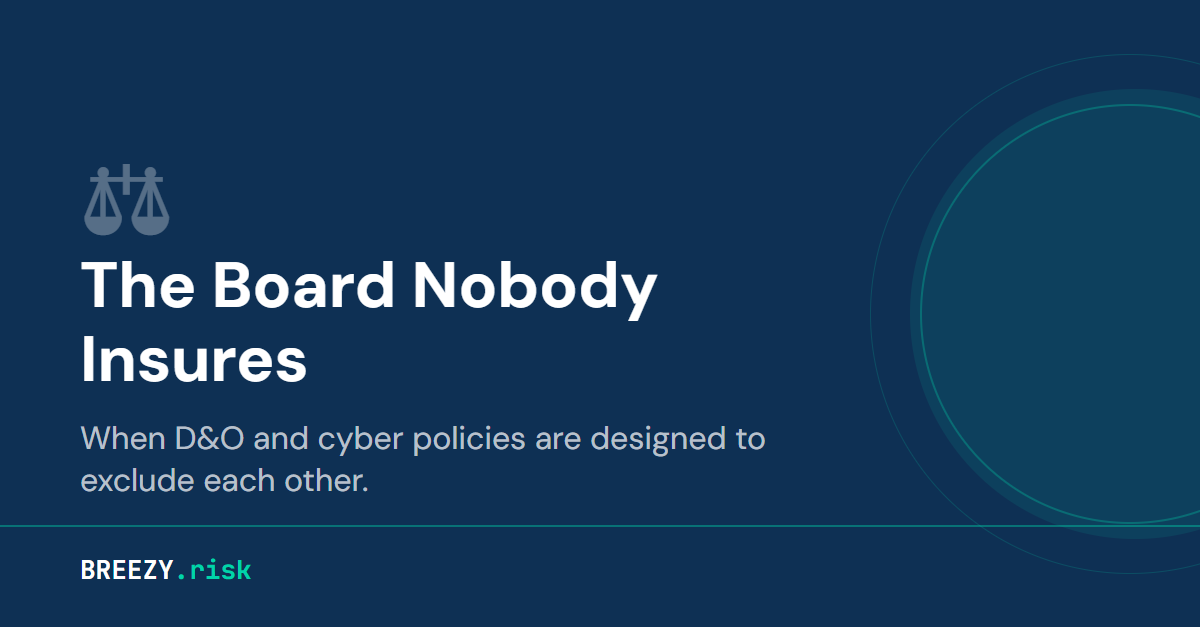
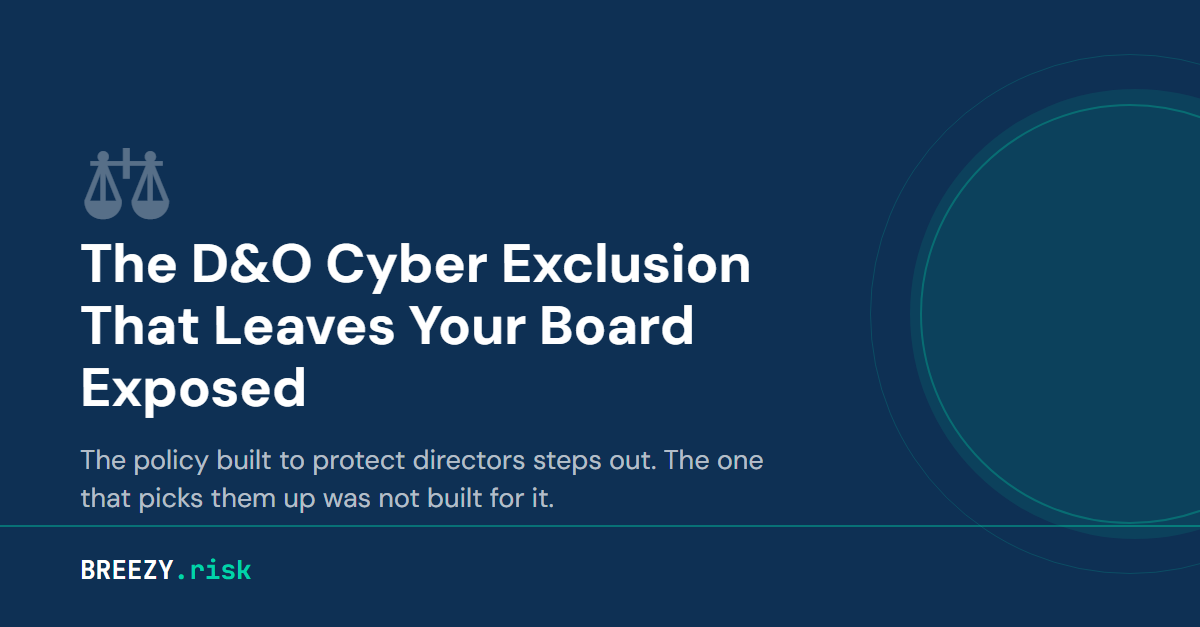
Correct the board-coverage finding: directors are named insureds on cyber
The site claimed that after a breach the D&O cyber exclusion applies and the
cyber policy does not reach individual directors, leaving the board with no
insurance response. The second half was wrong. Directors are named in the
definition of Insured on every community bank cyber form reviewed. The error
came from reading insuring agreements, which describe events, and never
reading the definitions, which decide who.

What replaces it: the D&O steps out (unchanged), the cyber policy catches the
directors, but there is no Side A tower so the board shares one limit that
breach response spends first, the claim trigger is form-dependent, and a broad
securities exclusion can still bar a post-breach derivative suit.

Also retires the recommendation to add directors as additional insureds on the
cyber policy. On these forms it is a no-op.

Regenerates the social card, which still read "The Board Nobody Insures."

Changed region(s): [[0.0617, 0.2424, 0.6475, 0.8182]]

diff --git a/faq.html b/faq.html
@@ -108,7 +108,7 @@ permalink: /faq/
       "name": "Will my D&O policy protect the board after a cyber breach?",
       "acceptedAnswer": {
         "@type": "Answer",
-        "text": "Probably less than you think. Most D&O policies for community banks include a cyber exclusion that excludes anything arising out of a cyber event. The intent is to push those claims to the cyber policy, but the cyber policy excludes D&O-style claims like shareholder derivative actions and individual director liability. After a breach, directors can face personal liability with neither policy responding at meaningful limits. I read both policies together and identify the wording that creates the gap, plus any investigative cost coverage the cyber policy may carry that the board can use."
+        "text": "Probably less than you think. Most D&O policies for community banks include a cyber exclusion that excludes anything arising out of a cyber event. The intent is to push those claims to the cyber policy, and the cyber policy does catch more of them than most boards realize, because on every community bank form I have read in full, directors are named in its definition of Insured. What it does not do is behave like a D&O policy. There is no Side A tower reserved for individuals, so the directors share one limit with forensics, notification and business interruption. On some forms nothing counts as a claim until a formal proceeding begins, and a broad securities exclusion can still bar a post-breach derivative suit. I read both policies together and identify which of those three narrows applies to you."
       }
     },
     {
@@ -237,8 +237,8 @@ permalink: /faq/
                 </div>
                 <div class="accordion-content">
                     <div class="accordion-body">
-                        <p>Probably less than you think. Most D&amp;O policies for community banks include a cyber exclusion that excludes anything arising out of a cyber event. The intent is to push those claims to the cyber policy, but the cyber policy excludes D&amp;O-style claims like shareholder derivative actions and individual director liability.</p>
-                        <p>After a breach, directors can face personal liability with neither policy responding at meaningful limits. I read both policies together and identify the wording that creates the gap, plus any investigative cost coverage the cyber policy may carry that the board can use.</p>
+                        <p>Probably less than you think. Most D&amp;O policies for community banks include a cyber exclusion that excludes anything arising out of a cyber event. The intent is to push those claims to the cyber policy, and the cyber policy does catch more of them than most boards realize, because on every community bank form I have read in full, directors are named in its definition of Insured.</p>
+                        <p>What it does not do is behave like a D&amp;O policy. There is no Side A tower reserved for individuals, so the directors share one limit with forensics, notification and business interruption, and those costs land first. On some forms nothing counts as a claim until a formal proceeding begins, which leaves the pre-formal examiner activity uncovered. And a broad securities exclusion can still bar a post-breach derivative suit. I read both policies together and identify which of those three narrows applies to you.</p>
                     </div>
                 </div>
             </div>

diff --git a/assets/images/blog-header-board-nobody-insures.html b/assets/images/blog-header-board-nobody-insures.html
@@ -6,7 +6,7 @@ sitemap: false
 <html>
 <head>
     <meta charset="UTF-8">
-    <title>Blog Header - The Board Nobody Insures</title>
+    <title>Blog Header - The D&amp;O Cyber Exclusion That Leaves Your Board Exposed</title>
     <link rel="preconnect" href="https://fonts.googleapis.com">
     <link rel="preconnect" href="https://fonts.gstatic.com" crossorigin>
     <link href="https://fonts.googleapis.com/css2?family=JetBrains+Mono:wght@400;600;700&family=DM+Sans:wght@400;500;700&display=swap" rel="stylesheet">
@@ -98,20 +98,21 @@ sitemap: false
 
         .title {
             font-family: 'DM Sans', sans-serif;
-            font-size: 64px;
+            font-size: 54px;
             font-weight: 700;
             color: #FFFFFF;
             line-height: 1.15;
-            margin-bottom: 20px;
-            max-width: 720px;
+            margin-bottom: 22px;
+            max-width: 800px;
         }
 
         .subtitle {
             font-family: 'DM Sans', sans-serif;
-            font-size: 32px;
+            font-size: 27px;
             font-weight: 400;
+            line-height: 1.4;
             color: rgba(255, 255, 255, 0.7);
-            max-width: 700px;
+            max-width: 730px;
         }
 
         .logo {
@@ -139,8 +140,8 @@ sitemap: false
 
     <div class="content">
         <div style="font-size: 100px; margin-bottom: -10px; opacity: 0.3; color: #fff;">&#x2696;</div>
-        <div class="title">The Board Nobody Insures</div>
-        <div class="subtitle">When D&amp;O and cyber policies are designed to exclude each other.</div>
+        <div class="title">The D&amp;O Cyber Exclusion That Leaves Your Board Exposed</div>
+        <div class="subtitle">The policy built to protect directors steps out. The one that picks them up was not built for it.</div>
     </div>
 
     <div class="logo">BREEZY<span class="teal">.risk</span></div>

diff --git a/coverage-gaps.html b/coverage-gaps.html
@@ -512,7 +512,7 @@ permalink: /coverage-gaps/
         <div class="gap-card__number">Gap 2</div>
         <h2 class="gap-card__title">The Board on the Hook</h2>
         <p class="gap-card__body">
-          After a breach, regulators go after the directors personally. The D&amp;O policy has a cyber exclusion nobody reviewed. The cyber policy does not cover board liability. Directors face personal exposure with no policy responding.
+          After a breach, regulators go after the directors personally. The D&amp;O policy has a cyber exclusion nobody reviewed. The cyber policy names directors as insureds and will respond, but on a limit the breach response has already been spending, and on some forms not until a formal proceeding begins.
         </p>
         <p class="gap-card__verdict">Some version of this gap exists in every institution I have reviewed.</p>
         <a href="{{ '/insights/the-board-nobody-insures/' | relative_url }}" class="gap-card__link">See the full analysis &rarr;</a>

diff --git a/index.html b/index.html
@@ -74,8 +74,8 @@ description: "I don't sell insurance. I audit it. Independent Risk Intelligence 
 
       <div class="proof-card">
         <svg class="proof-card-icon" width="28" height="28" viewBox="0 0 24 24" fill="none" stroke="currentColor" stroke-width="2" stroke-linecap="round" stroke-linejoin="round" aria-hidden="true"><path d="M12 22s8-4 8-10V5l-8-3-8 3v7c0 6 8 10 8 10z"/></svg>
-        <h3>D&O excludes cyber. Cyber excludes board.</h3>
-        <p>D&O <strong>excluded cyber-related claims</strong>. Cyber didn't cover board defense. After a breach, <strong>neither one pays.</strong></p>
+        <h3>D&O excludes cyber. The board lands on the cyber limit.</h3>
+        <p>Every D&O carried a <strong>cyber exclusion</strong>, though no two were alike. The board's defense falls to a cyber policy with <strong>no Side A layer</strong>, sharing one limit with forensics and notification.</p>
       </div>
 
       <div class="proof-card">

diff --git a/_posts/2026-04-01-the-board-nobody-insures.md b/_posts/2026-04-01-the-board-nobody-insures.md
@@ -2,21 +2,30 @@
 layout: post
 title: "The D&O Cyber Exclusion That Leaves Your Board Exposed"
 card_title: "The D&O Cyber Exclusion That Leaves Your Board Exposed"
-description: "A data breach hits a community bank. The D&O policy excludes cyber claims. The cyber policy excludes shareholder suits. Directors face personal liability with no insurance response."
+description: "A data breach hits a community bank. The D&O policy excludes cyber claims. Directors are named insureds on the cyber policy, but on a limit the breach response spends first."
 date: 2026-04-01
 author: Joerg Proeve
 category: Case Study
 read_time: "5 min read"
 image: /assets/images/Blog-Board-Nobody-Insures.png
-image_alt: "Community bank board of directors facing personal liability after a data breach with D&O cyber exclusion blocking coverage"
-last_modified_at: 2026-07-20
+image_alt: "Community bank board of directors after a data breach, with the D&O cyber exclusion blocking coverage and the defense falling to the cyber policy"
+last_modified_at: 2026-07-30
 permalink: /insights/the-board-nobody-insures/
 faq:
   - question: "What is a D&O cyber exclusion?"
     answer: "A D&O cyber exclusion is a policy clause that removes coverage for any claim 'arising out of' a cyber event. When a data breach leads to shareholder lawsuits, regulatory investigations, or derivative actions against directors, the D&O policy treats all of those claims as cyber-related and excludes them. The breadth of the exclusion depends on its wording: 'arising out of any cyber event' is broad and eliminates most post-breach director claims, while 'directly resulting from' is narrower and may preserve coverage for governance and oversight claims."
   - question: "Does D&O insurance cover data breaches at community banks?"
-    answer: "In most community bank D&O policies, no. The typical D&O policy contains a cyber exclusion that blocks coverage for any claim connected to a data breach, including shareholder derivative suits, regulatory defense costs, and class actions. At the same time, the cyber policy usually contains a securities exclusion that bars claims against individual directors. The result is a gap: neither policy covers the directors after a breach. Banks can close this gap by selecting a D&O policy without a blanket cyber exclusion and adding management liability coverage to the cyber policy."
+    answer: "In most community bank D&O policies, no. The typical D&O policy contains a cyber exclusion that blocks coverage for any claim connected to a data breach, including shareholder derivative suits, regulatory defense costs, and class actions. The cyber policy usually picks up part of what falls through, because directors are named in its definition of Insured. What it does not do is behave like a D&O policy: there is no Side A tower reserved for individuals, so directors share one limit with forensics, notification and business interruption, and on some forms a broad securities exclusion still bars a post-breach derivative suit."
 ---
+
+> **Updated July 30, 2026.** An earlier version of this post said the cyber
+> policy excludes claims against individual directors, and that recovery after a
+> post-breach board claim is zero across all three policies. That was wrong.
+> After a fee-only bank insurance consultant challenged the finding, I checked
+> the definition of Insured on the three cyber forms I hold in full. Directors
+> are named insureds on all three. The post has been rewritten around what the
+> forms actually say. The D&O cyber exclusion is unchanged and still the
+> headline problem.
 
 A data breach at a community bank exposes the personal financial information of more than 50,000 customers. Within 60 days, three things happen at once.
 
@@ -28,15 +37,25 @@ A data breach at a community bank exposes the personal financial information of 
 
 The bank's directors turn to their directors and officers (D&O) policy. They have had D&O coverage for years. It is supposed to protect them from exactly this kind of claim.
 
-## Three Policies, Zero Coverage
+## The D&O Policy Steps Out
 
 The D&O carrier reviews the claims and points to the policy's cyber exclusion: "arising out of any cyber event." The derivative action, the regulatory defense costs, the shareholder claims. All of them arise from the data breach. All of them are excluded.
 
-The directors ask: will the cyber policy cover us? The answer is no. The cyber policy contains a securities exclusion. It does not cover shareholder derivative actions, securities class actions, or claims against individual directors and officers.
+So the directors ask the obvious next question. Will the cyber policy cover us?
+
+Partly, and more than most boards expect. Turn to the definitions section, not the coverage grants, and look up Insured. On every community bank cyber form I have read in full, directors are named there. One defines an insured person to include any "director, officer, member of the board of trustees, governor, advisory or honorary director." Another says "any director or officer of the Insured Organization." A third reaches "any past, present or future officer, director, trustee." The directors have standing. Their defense costs in that OCC examination are a covered loss.
+
+That is the good news, and it took a 37-year consultant telling me I was wrong to find it. The coverage grants describe events. The definitions decide who. Read only the first half and you will reach a confident wrong answer, which is what I did.
 
 The fidelity bond is not applicable. This is not fraud, theft, or employee dishonesty.
 
-The directors are in the seam. The D&O policy excludes claims that arise from cyber events. The cyber policy excludes claims that look like D&O claims. Neither policy covers the loss. The directors face personal liability with no insurance response.
+What survives is narrower and more mechanical. Three things.
+
+**The limit is shared and it is spent in order.** A cyber policy has no Side A. D&O programs are built with a tower reserved for individuals precisely because the entity can exhaust everything else. Cyber policies are not. The directors sit on the same limit that pays forensics, notification, credit monitoring and business interruption, and those costs land in the first sixty days. The board investigation arrives in month six. This is arithmetic, not interpretation.
+
+**On some forms the clock starts late.** One of the three forms only recognizes a claim once a formal proceeding is "commenced by the filing of a notice of charges, formal investigative order or similar document." The other two reach a plain request for information. Most of what a bank board actually faces begins well before anything formal: matters requiring attention, examiner document requests, consent order negotiation. On the strictest form, none of that is a claim yet.
+
+**The derivative suit is the real seam.** Here the original version of this post was half right. Cyber policies carry a securities exclusion, and its breadth varies enormously. One form defines a securities claim to include a common law action "pled in tandem with, or in lieu of" a securities violation, brought "directly or derivatively," and then bars any loss that "in any way involves" such a claim. A Caremark suit alleging the board failed to oversee cybersecurity looks like it lands inside that. The other two forms are limited to securities transactions and securities law violations, with no derivative language at all. Same product, opposite answer.
 
 <div style="background: #0A2540; border-radius: 12px; padding: 32px; margin: 32px 0; color: #fff;">
 <h3 style="color: #00D4AA; margin-top: 0; font-size: 18px;">Three-Policy Breakdown</h3>
@@ -48,8 +67,8 @@ The directors are in the seam. The D&O policy excludes claims that arise from cy
 </div>
 <div style="flex: 1; min-width: 180px; background: rgba(59,130,246,0.1); border-left: 4px solid #3B82F6; border-radius: 8px; padding: 20px; display: flex; flex-direction: column;">
 <div style="color: #93C5FD; font-weight: 700; font-size: 14px; text-transform: uppercase; letter-spacing: 0.05em; margin-bottom: 10px;">Cyber Policy</div>
-<div style="color: rgba(255,255,255,0.8); font-size: 15px; line-height: 1.55;">Securities exclusion. Does not cover shareholder suits or claims against individual directors.</div>
-<div style="margin-top: auto; padding-top: 10px; border-top: 1px solid rgba(255,255,255,0.12);"><div style="font-size: 20px; font-weight: 700; color: #93C5FD;">$0</div></div>
+<div style="color: rgba(255,255,255,0.8); font-size: 15px; line-height: 1.55;">Directors are named insureds. Regulatory defense responds, but on a limit already spent on breach response. A broad securities exclusion may still bar the derivative suit.</div>
+<div style="margin-top: auto; padding-top: 10px; border-top: 1px solid rgba(255,255,255,0.12);"><div style="font-size: 20px; font-weight: 700; color: #93C5FD;">Whatever is left</div></div>
 </div>
 <div style="flex: 1; min-width: 180px; background: rgba(245,158,11,0.1); border-left: 4px solid #F59E0B; border-radius: 8px; padding: 20px; display: flex; flex-direction: column;">
 <div style="color: #FCD34D; font-weight: 700; font-size: 14px; text-transform: uppercase; letter-spacing: 0.05em; margin-bottom: 10px;">Fidelity Bond</div>
@@ -58,15 +77,15 @@ The directors are in the seam. The D&O policy excludes claims that arise from cy
 </div>
 </div>
 <p style="margin-top: 20px; padding-top: 16px; border-top: 1px solid rgba(255,255,255,0.15); font-size: 20px; font-weight: 700; color: #fff;">
-Recovery: $0. Directors face personal liability.
+The policy built to protect directors steps out. The one that picks them up was not built for it.
 </p>
 </div>
 
-For credit unions, the pathway is different but the gap is the same. A credit union board is less likely to face a shareholder derivative suit and more likely to face NCUA supervision, member harm claims, and privacy complaints. The D&O cyber exclusion blocks all of them the same way.
+For credit unions and mutual savings banks the picture is better, because the seam that matters most requires shareholders and they do not have any. There is no derivative suit, so the securities exclusion has nothing to bite on. What remains for a credit union board is NCUA supervision, member harm claims and privacy complaints, and those run through the cyber policy's regulatory coverage with the directors named as insureds. The exposure is the shared limit and the trigger point, not the void.
 
 ## This Is Not Just an Insurance Problem
 
-The breach is the first-order event. The board getting sued is the second-order event. The D&O gap means the second-order event is uninsured.
+The breach is the first-order event. The board getting sued is the second-order event. The D&O gap means the second-order event is funded, if at all, out of whatever the first-order event left behind.
 
 But the deeper problem is governance. After a breach, regulators and shareholders do not just ask what happened. They ask who was responsible for preventing it. They ask whether the board received cybersecurity briefings, whether it assigned committee ownership, whether it tracked remediation, and whether management escalated known risks. If the board cannot show documented oversight, the breach becomes a governance failure.
 
@@ -94,7 +113,9 @@ No published court case exists where a community bank board was the defendant in
 
 ## The Fix
 
-The community bank in this scenario made two changes at its next renewal. It replaced its D&O policy with one that does not contain a blanket cyber exclusion, and it added management liability coverage to its cyber policy. It also established a documented cybersecurity oversight process at the board level.
+The community bank in this scenario made two changes at its next renewal. It replaced its D&O policy with one that does not contain a blanket cyber exclusion, and it moved to a cyber form with a narrow securities exclusion and a claim trigger that reaches a request for information. It also established a documented cybersecurity oversight process at the board level.
+
+One thing it did not do, and one thing an earlier version of this post suggested: ask the broker to add directors as additional insureds on the cyber policy. On these forms they are already insureds. The request buys nothing and tells your broker you did not read the policy.
 
 Four things to check now:
 
@@ -105,11 +126,11 @@ Four things to check now:
 </div>
 <div style="display: flex; gap: 16px; margin-bottom: 20px;">
 <div style="min-width: 32px; height: 32px; background: #00D4AA; border-radius: 50%; display: flex; align-items: center; justify-content: center; font-weight: 700; color: #0A2540; font-size: 16px;">2</div>
-<div><strong>Check whether your cyber policy includes management liability coverage.</strong> Most cyber policies contain a securities exclusion that bars shareholder suits, derivative actions, and claims against individual directors. If your D&O excludes cyber and your cyber excludes D&O, nobody pays.</div>
+<div><strong>Open your cyber policy to the definitions and read Insured.</strong> Ask your broker to show you the sentence that names your directors. Then read the securities exclusion. If it reaches claims "pled in tandem with, or in lieu of" a securities violation and covers actions brought "derivatively," a post-breach Caremark suit may be barred even though your directors are insureds.</div>
 </div>
 <div style="display: flex; gap: 16px; margin-bottom: 20px;">
 <div style="min-width: 32px; height: 32px; background: #00D4AA; border-radius: 50%; display: flex; align-items: center; justify-content: center; font-weight: 700; color: #0A2540; font-size: 16px;">3</div>
-<div><strong>If neither policy covers the overlap, close the gap at renewal.</strong> D&O policies without blanket cyber exclusions exist. So do cyber policies with management liability coverage. These are not exotic products. They are options that were not selected.</div>
+<div><strong>Close the overlap at renewal.</strong> D&O policies without blanket cyber exclusions exist. So do cyber forms whose claim trigger reaches a request for information rather than a formal proceeding. These are not exotic products. They are options that were not selected.</div>
 </div>
 <div style="display: flex; gap: 16px;">
 <div style="min-width: 32px; height: 32px; background: #00D4AA; border-radius: 50%; display: flex; align-items: center; justify-content: center; font-weight: 700; color: #0A2540; font-size: 16px;">4</div>

diff --git a/_posts/2026-06-12-the-breach-you-didnt-cause.md b/_posts/2026-06-12-the-breach-you-didnt-cause.md
@@ -1,7 +1,7 @@
 ---
 layout: post
 title: "The Breach You Didn't Cause"
-description: "A vendor's sub-vendor gets breached. The bank's systems are untouched. But when regulators investigate the board's vendor oversight, the D&O cyber exclusion blocks the defense costs. Directors face personal exposure for an incident that started two links down the supply chain."
+description: "A vendor's sub-vendor gets breached. The bank's systems are untouched. But when regulators investigate the board's vendor oversight, the D&O cyber exclusion blocks the defense costs and the board lands on a cyber limit the breach response is already spending."
 date: 2026-06-12
 author: Joerg Proeve
 category: Case Study
@@ -18,7 +18,7 @@ The bank's own systems were never touched. Its firewalls held. Its SOC monitorin
 
 ## Three Policies, One Coverage Gap That Matters
 
-The cyber policy covers part of the breach response: notification, forensics, credit monitoring. But [dependent business interruption]({{ '/insights/your-vendor-is-your-biggest-exposure/' | relative_url }}) coverage for vendor-caused losses may not apply when the sub-vendor isn't on the policy schedule. The fidelity bond doesn't apply. Neither policy covers what happens next.
+The cyber policy covers part of the breach response: notification, forensics, credit monitoring. But [dependent business interruption]({{ '/insights/your-vendor-is-your-biggest-exposure/' | relative_url }}) coverage for vendor-caused losses may not apply when the sub-vendor isn't on the policy schedule. The fidelity bond doesn't apply. What happens next is where the program gets tested.
 
 Once the bank files its 36-hour notification with the regulator, the OCC opens a targeted examination of the bank's vendor risk management program. The Federal Financial Institutions Examination Council's ([FFIEC](https://www.federalregister.gov/documents/2023/06/09/2023-12340/interagency-guidance-on-third-party-relationships-risk-management)) guidance on third-party relationships is specific: the board is responsible for overseeing vendor risk, which includes sub-contractors. The examiner asks whether the board approved the vendor risk management policy, whether it reviewed the vendor's SOC reports, whether it evaluated fourth-party concentrations, and whether management escalated known risks.
 
@@ -26,12 +26,18 @@ The board's attorneys begin preparing for the examination. Defense costs will ru
 
 The carrier reviews the claim and points to the policy's cyber exclusion: "arising out of or in any way involving any cyber event." A vendor breach is a cyber event. The regulatory investigation arises from it. Coverage denied.
 
+So the defense falls to the cyber policy, which does pick it up. Directors are named in the cyber policy's definition of Insured, and a regulatory proceeding against them is a covered loss. That is more than most boards expect, and more than I used to think.
+
+Two things narrow it, and this scenario surfaces both. The first is timing. A targeted examination is not a formal proceeding. One of the community bank cyber forms I have read only recognizes a claim once something is "commenced by the filing of a notice of charges, formal investigative order or similar document," which means the examiner's document requests and the attorneys' preparation are not yet a claim on that form. Two others reach a plain request for information and would respond from the first letter. Same scenario, two different answers, decided by a definition.
+
+The second is capacity. The bank has already been spending the cyber limit on notification and credit monitoring for 50,000 records. A cyber policy has no Side A, no tower held back for individuals the way a D&O program is built. The board's defense costs queue up behind the breach response on the same limit.
+
 <div style="background: #0A2540; border-radius: 12px; padding: 32px; margin: 32px 0; color: #fff;">
 <h3 style="color: #00D4AA; margin-top: 0; font-size: 18px;">Three-Policy Breakdown</h3>
 <div style="display: flex; flex-wrap: wrap; gap: 16px;">
 <div style="flex: 1; min-width: 180px; background: rgba(59,130,246,0.1); border-left: 4px solid #3B82F6; border-radius: 8px; padding: 20px; display: flex; flex-direction: column;">
 <div style="color: #93C5FD; font-weight: 700; font-size: 14px; text-transform: uppercase; letter-spacing: 0.05em; margin-bottom: 10px;">Cyber Policy</div>
-<div style="color: rgba(255,255,255,0.8); font-size: 15px; line-height: 1.55;">Covers breach response. Dependent business interruption may not apply if sub-vendor isn't on the policy schedule. No coverage for board defense costs.</div>
+<div style="color: rgba(255,255,255,0.8); font-size: 15px; line-height: 1.55;">Covers breach response. Dependent business interruption may not apply if sub-vendor isn't on the policy schedule. Picks up the board defense too, but on the same limit and, on some forms, not until a formal proceeding opens.</div>
 <div style="margin-top: auto; padding-top: 10px; border-top: 1px solid rgba(255,255,255,0.12);"><div style="font-size: 20px; font-weight: 700; color: #93C5FD;">Partial</div></div>
 </div>
 <div style="flex: 1; min-width: 180px; background: rgba(245,158,11,0.1); border-left: 4px solid #F59E0B; border-radius: 8px; padding: 20px; display: flex; flex-direction: column;">
@@ -41,12 +47,12 @@ The carrier reviews the claim and points to the policy's cyber exclusion: "arisi
 </div>
 <div style="flex: 1; min-width: 180px; background: rgba(139,92,246,0.1); border-left: 4px solid #8B5CF6; border-radius: 8px; padding: 20px; display: flex; flex-direction: column;">
 <div style="color: #C4B5FD; font-weight: 700; font-size: 14px; text-transform: uppercase; letter-spacing: 0.05em; margin-bottom: 10px;">D&amp;O Policy</div>
-<div style="color: rgba(255,255,255,0.8); font-size: 15px; line-height: 1.55;">The cyber exclusion on the D&amp;O policy blocks regulatory defense costs. Directors are personally exposed.</div>
+<div style="color: rgba(255,255,255,0.8); font-size: 15px; line-height: 1.55;">The cyber exclusion blocks regulatory defense costs. The policy built to protect directors steps out entirely.</div>
 <div style="margin-top: auto; padding-top: 10px; border-top: 1px solid rgba(255,255,255,0.12);"><div style="font-size: 20px; font-weight: 700; color: #C4B5FD;">$0</div></div>
 </div>
 </div>
 <p style="margin-top: 20px; padding-top: 16px; border-top: 1px solid rgba(255,255,255,0.15); font-size: 20px; font-weight: 700; color: #fff;">
-Partial recovery on breach response. Zero on board defense.
+Partial recovery on breach response. Board defense falls to the policy that was not designed to carry it.
 </p>
 </div>
 
@@ -56,7 +62,7 @@ In this scenario, the bank's own security worked. The data breach happened two l
 
 Under the FFIEC's 2023 updated guidance on third-party risk management, banks are expected to assess risks throughout the vendor lifecycle, which includes sub-contracting arrangements. For community banks, where the board often relies on management to handle vendor due diligence, that means the examiner will ask the board what they knew and when.
 
-I [wrote about a similar gap]({{ '/insights/the-board-nobody-insures/' | relative_url }}) in April, where a breach at the bank itself triggered shareholder claims alleging the board failed to oversee cybersecurity. The D&O cyber exclusion blocked those claims too. Different fact pattern, same result: directors face personal exposure because the D&O and cyber policies point at each other.
+I [wrote about a similar gap]({{ '/insights/the-board-nobody-insures/' | relative_url }}) in April, where a breach at the bank itself triggered shareholder claims alleging the board failed to oversee cybersecurity. The D&O cyber exclusion blocked those claims too. Different fact pattern, same architecture: the D&O steps out, and everything the board needs is riding on a cyber policy that was underwritten for breach response.
 
 It has already happened at scale. The [MOVEit vulnerability in 2023](https://www.americanbanker.com/news/flagstar-latest-of-60-banks-affected-by-moveit-breaches) compromised more than 60 banks through file transfer vendors embedded in their core platforms. A ransomware attack on [Marquis Software Solutions](https://www.americanbanker.com/news/marquis-breach-toll-rises-to-80-banks-824-000-consumers) in 2025 exposed data for more than 800,000 customers across 80 banks and credit unions. In both cases, the banks' own systems were unaffected. The breach came from outside, and the liability followed it in.
 

diff --git a/_posts/2026-04-15-five-incidents-three-policies.md b/_posts/2026-04-15-five-incidents-three-policies.md
@@ -41,15 +41,17 @@ When a critical vendor (e.g. FIS, Fiserv, Jack Henry) goes down and the bank can
 
 ### Data Breach and Regulatory Investigation
 
-A data breach triggers the cyber policy for breach response costs: forensics, notification, credit monitoring. That part usually works. The gap shows up on the regulatory side. When state regulators or the OCC opens an investigation, defense costs can run into six figures. The cyber policy may cover some of it, but investigation defense often falls under the D&O. If the D&O carries a cyber exclusion, which many do, the bank has no coverage for the investigation that follows the breach. Two policies, and neither one covers the regulatory response cleanly.
+A data breach triggers the cyber policy for breach response costs: forensics, notification, credit monitoring. That part usually works. The gap shows up on the regulatory side. When state regulators or the OCC opens an investigation, defense costs can run into six figures. If the D&O carries a cyber exclusion, which many do, that policy is out and the whole regulatory response rides on the cyber form. Whether it responds from the first examiner letter or only once a formal proceeding opens depends on how that form defines a claim, and the community bank forms split on exactly that point.
 
 ### Board Liability After a Breach
 
-After a significant cyber event, the question shifts from "what happened" to "who is responsible." Shareholder derivative claims, regulatory enforcement actions, and examiner scrutiny all land on the board. The cyber policy does not cover board liability. The D&O should, but many D&O policies now carry broad cyber exclusions that carve out any claim "arising from" a data breach or cyber event. If the D&O excludes cyber-related claims, the board has no coverage for the fallout from the very incident the cyber policy was supposed to handle.
+After a significant cyber event, the question shifts from "what happened" to "who is responsible." Shareholder derivative claims, regulatory enforcement actions, and examiner scrutiny all land on the board. The D&O should answer, but many D&O policies now carry broad cyber exclusions that carve out any claim "arising from" a data breach or cyber event.
+
+The cyber policy is the fallback, and it works better than most boards assume: open the definitions section and directors are named as insureds. Two things narrow it. There is no Side A layer, so the board's defense competes for the same limit the bank has been spending on notification since day one. And the securities exclusion varies enormously between forms. One community bank form reaches common law claims "pled in tandem with, or in lieu of" a securities violation, brought "directly or derivatively," which is broad enough to capture a post-breach derivative suit. Others are limited to securities transactions and would not.
 
 ## What the Map Tells You
 
-Look at the policy interaction map as a whole. The rows with the most red are the ones where coverage breaks down: wire transfer fraud, regulatory investigations, board liability after a breach. These are not outliers. They are the incidents that land on a community bank CFO's desk.
+Look at the policy interaction map as a whole. The rows with the most red are the ones where coverage breaks down: wire transfer fraud, regulatory investigations, board liability after a breach. These are not outliers. They are the incidents that land on a community bank CFO's desk. On the last two, the failure is rarely a flat denial. It is one policy stepping out and the other carrying more than it was priced to carry.
 
 Most banks that carry all three policies assume they are covered. But nobody has read the policies together and asked: for this specific incident, which carrier pays? Until someone does that work, each carrier has a reason to say no, and the bank holds the loss. For a closer look at how each of these failures plays out, see [six ways coverage fails at claim time]({{ '/coverage-gaps/' | relative_url }}).
 

diff --git a/_posts/2026-06-16-five-audits-same-gaps.md b/_posts/2026-06-16-five-audits-same-gaps.md
@@ -118,24 +118,26 @@ The problem is what the endorsement says. Four of five banks had sublimits betwe
 
 ---
 
-<h2 style="display: flex; align-items: center; gap: 14px;"><svg width="34" height="34" viewBox="0 0 24 24" fill="none" stroke="#DC2626" stroke-width="2" stroke-linecap="round" stroke-linejoin="round" style="flex-shrink: 0; margin-top: 0;" aria-hidden="true"><path d="M12 22s8-4 8-10V5l-8-3-8 3v7c0 6 8 10 8 10z"/><line x1="9" y1="9" x2="15" y2="15"/><line x1="15" y1="9" x2="9" y2="15"/></svg><span>D&amp;O Cyber Exclusion: Every Director Was Personally Exposed</span></h2>
+<h2 style="display: flex; align-items: center; gap: 14px;"><svg width="34" height="34" viewBox="0 0 24 24" fill="none" stroke="#DC2626" stroke-width="2" stroke-linecap="round" stroke-linejoin="round" style="flex-shrink: 0; margin-top: 0;" aria-hidden="true"><path d="M12 22s8-4 8-10V5l-8-3-8 3v7c0 6 8 10 8 10z"/><line x1="9" y1="9" x2="15" y2="15"/><line x1="15" y1="9" x2="9" y2="15"/></svg><span>D&amp;O Cyber Exclusion: Every Board Was Pushed Onto the Cyber Policy</span></h2>
 
 <div style="background: #f0f9ff; border-left: 4px solid #00D4AA; padding: 14px 18px; margin-bottom: 20px; border-radius: 0 4px 4px 0;">
-<p style="margin: 0; color: #1e293b; line-height: 1.55;">Every D&amp;O policy had a cyber exclusion. Zero banks had full board protection after a breach.</p>
+<p style="margin: 0; color: #1e293b; line-height: 1.55;">Every D&amp;O policy had a cyber exclusion. Zero banks had a Side A layer to fall back on.</p>
 </div>
 
 After a breach, regulators investigate the board. Did they approve a cybersecurity strategy? Did they allocate adequate resources? The FFIEC, FDIC, and state regulators have all increased scrutiny of board cybersecurity oversight. These investigations are D&O claims.
 
-Every D&O policy I reviewed had a cyber exclusion. The cyber carrier says board liability is a D&O claim. The D&O carrier says it arises from a cyber event. Directors are in the middle with neither policy responding. Only two banks had partial carve-backs. One credit union protected individual directors but excluded entity-level claims. One bank capped investigative costs at $100,000, but a multi-regulator defense can exceed $500,000 in the first six months. None had a Side A fallback.
+Every D&O policy I reviewed had a cyber exclusion, though they were not uniform. One preserved individual director coverage and excluded only entity-level claims. Another carved back privacy violations while still blocking breach claims. One capped investigative costs at $100,000, against a multi-regulator defense that can exceed $500,000 in the first six months. A fourth had no pre-claim investigative coverage in its loss definition at all. Four carriers, four failure modes, same destination for the most common scenario.
+
+The board is not left with nothing. Directors are named in the cyber policy's definition of Insured, so the cyber policy picks up what the D&O drops. What it does not do is behave like a D&O policy. No Side A, so the directors share one limit with breach response, and breach response spends first.
 
 **What to check**
 
 - Does your D&O policy have a cyber exclusion? Does it use "arising from" language (broad) or something narrower?
 - Is there a carve-back for regulatory investigations of individual directors?
-- Does your cyber policy include any board coverage provisions? (Most do not.)
-- Do you have a Side A difference-in-conditions layer?
+- Open the cyber policy's definitions and confirm your directors are named as insureds. Then read the securities exclusion, which is where a post-breach derivative suit can still fail.
+- If the breach response spends the cyber limit in the first sixty days, what is left for the board six months later?
 
-[The Board Nobody Insures]({{ '/insights/the-board-nobody-insures/' | relative_url }})
+[The D&O Cyber Exclusion That Leaves Your Board Exposed]({{ '/insights/the-board-nobody-insures/' | relative_url }})
 
 ---
 

diff --git a/_posts/2026-05-22-the-program-problem.md b/_posts/2026-05-22-the-program-problem.md
@@ -101,7 +101,11 @@ Some programs put electronic crime coverage on both the cyber and bond sides for
 
 One program's D&O form contains what I consider among the broadest cyber exclusions in the bank D&O market. It blocks all D&O claims "arising out of or in any way involving" cyber banking services, electronic funds transfers, privacy and security regulations, or cyber publishing.
 
-What this means in practice: after a data breach, the board and individual directors have zero D&O coverage for a regulatory investigation into cyber oversight failures. The cyber policy covers breach response costs. But if the regulator investigates whether the board met its oversight obligations, or names an individual director for failure of duty of care, that's a D&O matter, and the D&O policy excludes it because it "involves" a cyber event.
+What this means in practice: after a data breach, the board and individual directors have zero D&O coverage for a regulatory investigation into cyber oversight failures. The entire response then rests on the program's cyber policy, which does name directors as insureds and will defend them.
+
+The catch is that this is the same program, so the same underwriter decided both. And the cyber form in this program is the stricter of the two designs in the market. It only recognizes a claim once a proceeding is "commenced by the filing of a notice of charges, formal investigative order or similar document," which leaves the examiner's early document requests outside coverage. It excludes civil and criminal fines from loss. And its securities exclusion reaches common law claims "pled in tandem with, or in lieu of" a securities violation, brought "directly or derivatively," which is broad enough to capture a post-breach derivative suit against the board.
+
+That is the program problem in one paragraph. When one carrier writes both policies, a gap on one side is not automatically covered on the other. It can be the same underwriting appetite expressed twice.
 
 ### Credential-Based Fraud Falls Between Policies
 

diff --git a/_posts/2026-02-27-cyber-insurance-for-community-banks.md b/_posts/2026-02-27-cyber-insurance-for-community-banks.md
@@ -17,7 +17,7 @@ faq:
   - question: "Does cyber insurance cover wire fraud at a community bank?"
     answer: "Most cyber policies offer social engineering coverage only as an endorsement with sublimits typically between $100,000 and $250,000. For a bank that regularly processes wire transfers in the hundreds of thousands, the sublimit can be exhausted by a single incident. The fidelity bond may or may not respond depending on verification requirements and how the loss is categorized."
   - question: "Does a community bank D&O policy cover board liability after a cyber breach?"
-    answer: "Many D&O policies now exclude claims arising from a cyber event, pushing everything to the cyber policy. But the cyber policy may not cover board liability claims either. This creates a gap where directors face personal exposure after a breach with no insurance response from either policy."
+    answer: "Many D&O policies now exclude claims arising from a cyber event, pushing everything to the cyber policy. The cyber policy does catch the directors, because they are named in its definition of Insured, but it was not built to carry them. There is no Side A tower, so the board shares one limit with forensics and notification, and those costs land first. On some forms nothing counts as a claim until a formal proceeding opens, which leaves early examiner activity uncovered."
   - question: "Does cyber insurance cover vendor outages at a community bank?"
     answer: "Many cyber policies either exclude third-party outages entirely, sublimit them, or require a security failure at the vendor. A configuration error or operational failure at the vendor would not qualify. Check whether your policy covers dependent business interruption and whether the trigger requires a security event or covers any system outage."
 ---

diff --git a/_posts/2026-07-06-the-cheap-good-fast-triangle.md b/_posts/2026-07-06-the-cheap-good-fast-triangle.md
@@ -44,7 +44,7 @@ Business email compromise, deepfake voice fraud, and vendor impersonation are th
 D&O: the exclusion nobody read.
 </div>
 
-Many banks' D&O policies contain a blanket cyber event exclusion: claims "arising from" a data breach or failure of computer security. After a breach, examiners investigate the board's cybersecurity oversight. That is a D&O matter. But the D&O policy does not respond because the claim "arises from" a cyber event. The cyber policy covers breach response costs, not claims against individual board members for oversight failures. After a breach, neither policy covers the investigation of the board.
+Many banks' D&O policies contain a blanket cyber event exclusion: claims "arising from" a data breach or failure of computer security. After a breach, examiners investigate the board's cybersecurity oversight. That is a D&O matter. But the D&O policy does not respond because the claim "arises from" a cyber event. The cyber policy is what catches the board because directors are typically named in its definition of Insured. What it does not carry is a Side A layer. The board's defense competes for the same limit that has been paying forensics and notification since day one, and on some forms nothing is a claim until a formal proceeding opens.
 
 ## What "good" looks like
 

diff --git a/_posts/2026-07-22-credit-union-board-liability.md b/_posts/2026-07-22-credit-union-board-liability.md
@@ -95,7 +95,7 @@ The individual director protections were strong. TruStage's personal coverage fo
 Three gaps, six months, one policy absorbing all of it. That is where the exposure sits.
 </div>
 
-This is the credit union-specific version of a problem that hits banks too. I wrote about [the D&O cyber exclusion from the bank side]({{ '/insights/the-board-nobody-insures/' | relative_url }}), where the seam between D&O and cyber leaves directors with zero coverage after a breach.
+This is the credit union-specific version of a problem that hits banks too. I wrote about [the D&O cyber exclusion from the bank side]({{ '/insights/the-board-nobody-insures/' | relative_url }}), where the D&O steps out and the cyber policy ends up carrying a board defense it was never structured to fund.
 
 If your board has never reviewed the D&O cyber exclusion, the investigation coverage election on the declarations page, and what happens when the cyber policy becomes the sole source of defense funding, those three things are worth reading before your next renewal.
 
